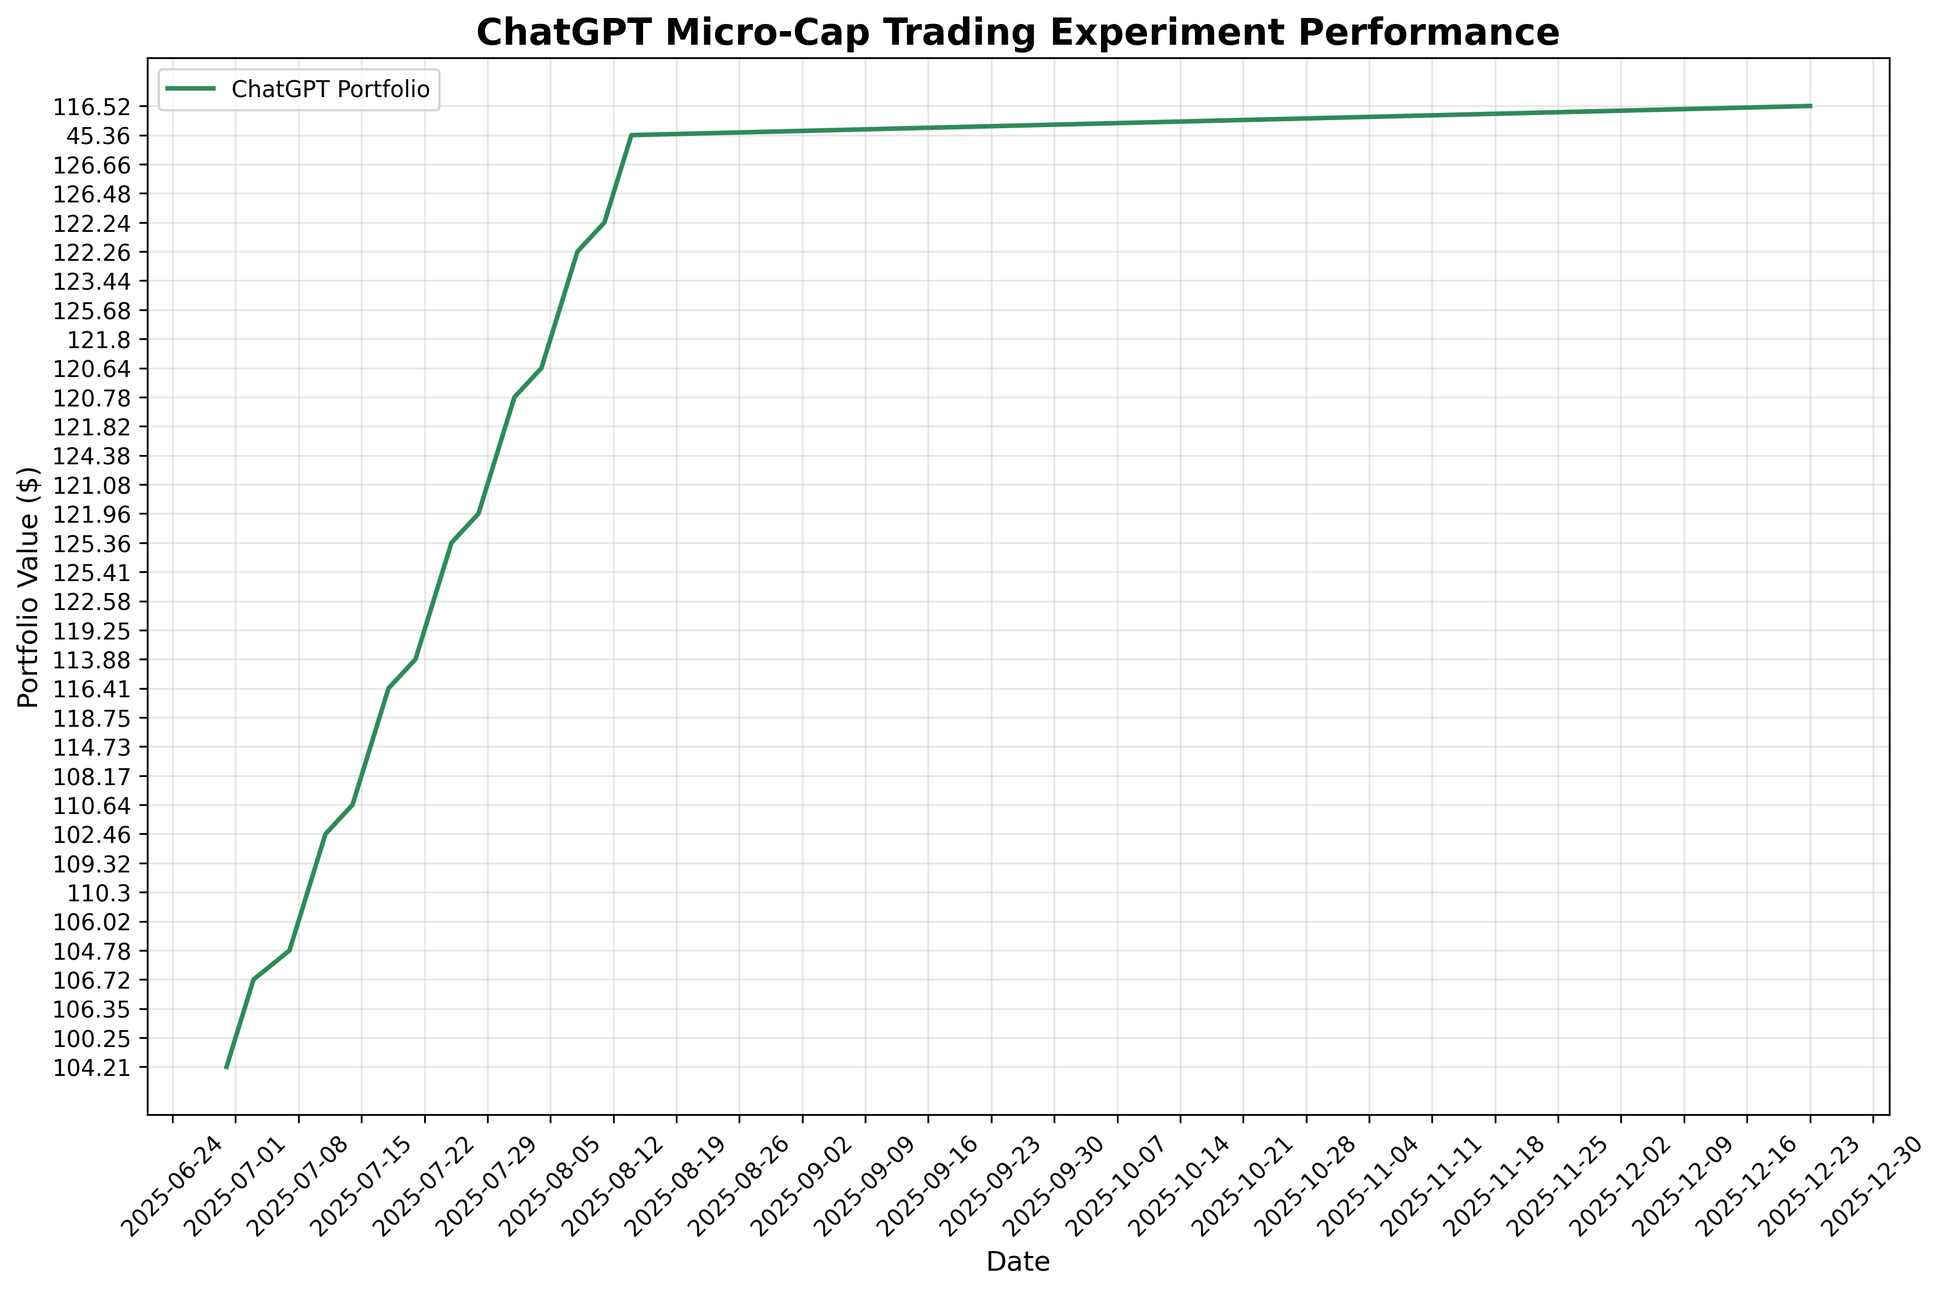
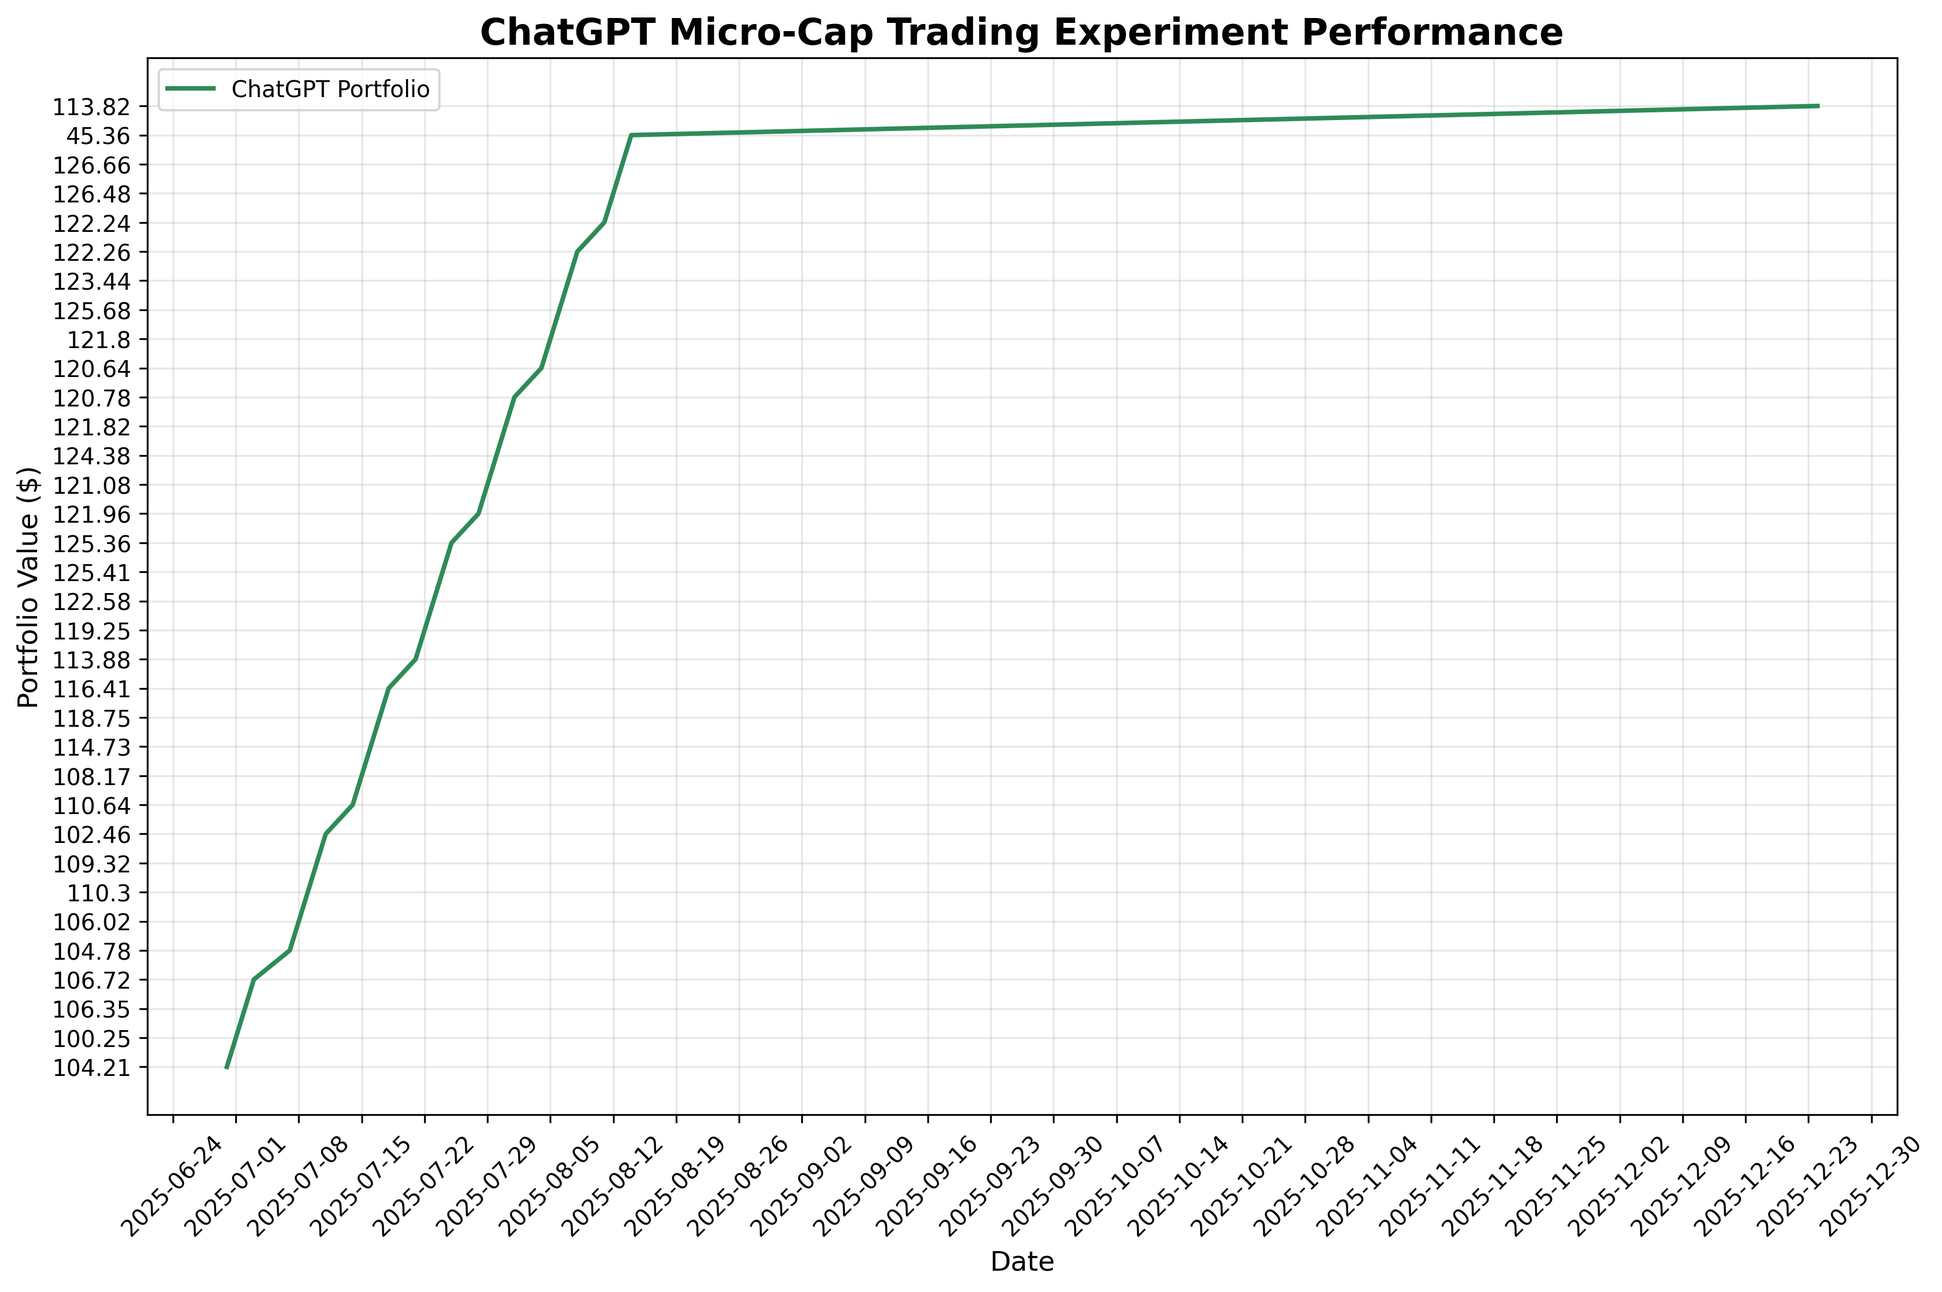
deploy: e15cad030d70fb3fbb51f9df6e22fa70c2f175c0

diff --git a/index.html b/index.html
@@ -105,7 +105,7 @@
                 <div class="stat-label">Total Trades</div>
             </div>
             <div class="stat-card">
-                <div class="stat-value" id="last-updated">2025-12-23</div>
+                <div class="stat-value" id="last-updated">2025-12-24</div>
                 <div class="stat-label">Last Updated</div>
             </div>
         </div>
@@ -160,7 +160,7 @@
     
     <script>
         // Portfolio data
-        const portfolioData = JSON.parse("[{&quot;Date&quot;: &quot;2025-08-11&quot;, &quot;Ticker&quot;: &quot;ABEO&quot;, &quot;Shares&quot;: 4.0, &quot;Buy Price&quot;: 5.77, &quot;Cost Basis&quot;: 23.08, &quot;Stop Loss&quot;: 4.9, &quot;Current Price&quot;: 6.28, &quot;Total Value&quot;: 25.12, &quot;PnL&quot;: 2.04, &quot;Action&quot;: &quot;HOLD&quot;, &quot;Cash Balance&quot;: NaN, &quot;Total Equity&quot;: NaN}, {&quot;Date&quot;: &quot;2025-08-11&quot;, &quot;Ticker&quot;: &quot;ACTU&quot;, &quot;Shares&quot;: 6.0, &quot;Buy Price&quot;: 5.75, &quot;Cost Basis&quot;: 34.5, &quot;Stop Loss&quot;: 4.89, &quot;Current Price&quot;: 8.01, &quot;Total Value&quot;: 48.06, &quot;PnL&quot;: 13.56, &quot;Action&quot;: &quot;HOLD&quot;, &quot;Cash Balance&quot;: NaN, &quot;Total Equity&quot;: NaN}, {&quot;Date&quot;: &quot;2025-08-11&quot;, &quot;Ticker&quot;: &quot;ESPR&quot;, &quot;Shares&quot;: 2.0, &quot;Buy Price&quot;: 1.91, &quot;Cost Basis&quot;: 3.82, &quot;Stop Loss&quot;: 1.6, &quot;Current Price&quot;: 1.85, &quot;Total Value&quot;: 3.7, &quot;PnL&quot;: -0.12, &quot;Action&quot;: &quot;HOLD&quot;, &quot;Cash Balance&quot;: NaN, &quot;Total Equity&quot;: NaN}, {&quot;Date&quot;: &quot;2025-08-11&quot;, &quot;Ticker&quot;: &quot;TOTAL&quot;, &quot;Shares&quot;: NaN, &quot;Buy Price&quot;: NaN, &quot;Cost Basis&quot;: NaN, &quot;Stop Loss&quot;: NaN, &quot;Current Price&quot;: NaN, &quot;Total Value&quot;: 76.88, &quot;PnL&quot;: 15.48, &quot;Action&quot;: NaN, &quot;Cash Balance&quot;: 45.36, &quot;Total Equity&quot;: &quot;122.24&quot;}, {&quot;Date&quot;: &quot;2025-08-12&quot;, &quot;Ticker&quot;: &quot;ABEO&quot;, &quot;Shares&quot;: 4.0, &quot;Buy Price&quot;: 5.77, &quot;Cost Basis&quot;: 23.08, &quot;Stop Loss&quot;: 4.9, &quot;Current Price&quot;: 6.38, &quot;Total Value&quot;: 25.52, &quot;PnL&quot;: 2.44, &quot;Action&quot;: &quot;HOLD&quot;, &quot;Cash Balance&quot;: NaN, &quot;Total Equity&quot;: NaN}, {&quot;Date&quot;: &quot;2025-08-12&quot;, &quot;Ticker&quot;: &quot;ACTU&quot;, &quot;Shares&quot;: 6.0, &quot;Buy Price&quot;: 5.75, &quot;Cost Basis&quot;: 34.5, &quot;Stop Loss&quot;: 4.89, &quot;Current Price&quot;: 8.67, &quot;Total Value&quot;: 52.02, &quot;PnL&quot;: 17.52, &quot;Action&quot;: &quot;HOLD&quot;, &quot;Cash Balance&quot;: NaN, &quot;Total Equity&quot;: NaN}, {&quot;Date&quot;: &quot;2025-08-12&quot;, &quot;Ticker&quot;: &quot;ESPR&quot;, &quot;Shares&quot;: 2.0, &quot;Buy Price&quot;: 1.91, &quot;Cost Basis&quot;: 3.82, &quot;Stop Loss&quot;: 1.6, &quot;Current Price&quot;: 1.79, &quot;Total Value&quot;: 3.58, &quot;PnL&quot;: -0.24, &quot;Action&quot;: &quot;HOLD&quot;, &quot;Cash Balance&quot;: NaN, &quot;Total Equity&quot;: NaN}, {&quot;Date&quot;: &quot;2025-08-12&quot;, &quot;Ticker&quot;: &quot;TOTAL&quot;, &quot;Shares&quot;: NaN, &quot;Buy Price&quot;: NaN, &quot;Cost Basis&quot;: NaN, &quot;Stop Loss&quot;: NaN, &quot;Current Price&quot;: NaN, &quot;Total Value&quot;: 81.12, &quot;PnL&quot;: 19.72, &quot;Action&quot;: NaN, &quot;Cash Balance&quot;: 45.36, &quot;Total Equity&quot;: &quot;126.48&quot;}, {&quot;Date&quot;: &quot;2025-08-13&quot;, &quot;Ticker&quot;: &quot;ABEO&quot;, &quot;Shares&quot;: 4.0, &quot;Buy Price&quot;: 5.77, &quot;Cost Basis&quot;: 23.08, &quot;Stop Loss&quot;: 4.9, &quot;Current Price&quot;: 6.56, &quot;Total Value&quot;: 26.24, &quot;PnL&quot;: 3.16, &quot;Action&quot;: &quot;HOLD&quot;, &quot;Cash Balance&quot;: NaN, &quot;Total Equity&quot;: NaN}, {&quot;Date&quot;: &quot;2025-08-13&quot;, &quot;Ticker&quot;: &quot;ACTU&quot;, &quot;Shares&quot;: 6.0, &quot;Buy Price&quot;: 5.75, &quot;Cost Basis&quot;: 34.5, &quot;Stop Loss&quot;: 4.89, &quot;Current Price&quot;: 8.53, &quot;Total Value&quot;: 51.18, &quot;PnL&quot;: 16.68, &quot;Action&quot;: &quot;HOLD&quot;, &quot;Cash Balance&quot;: NaN, &quot;Total Equity&quot;: NaN}, {&quot;Date&quot;: &quot;2025-08-13&quot;, &quot;Ticker&quot;: &quot;ESPR&quot;, &quot;Shares&quot;: 2.0, &quot;Buy Price&quot;: 1.91, &quot;Cost Basis&quot;: 3.82, &quot;Stop Loss&quot;: 1.6, &quot;Current Price&quot;: 1.94, &quot;Total Value&quot;: 3.88, &quot;PnL&quot;: 0.06, &quot;Action&quot;: &quot;HOLD&quot;, &quot;Cash Balance&quot;: NaN, &quot;Total Equity&quot;: NaN}, {&quot;Date&quot;: &quot;2025-08-13&quot;, &quot;Ticker&quot;: &quot;TOTAL&quot;, &quot;Shares&quot;: NaN, &quot;Buy Price&quot;: NaN, &quot;Cost Basis&quot;: NaN, &quot;Stop Loss&quot;: NaN, &quot;Current Price&quot;: NaN, &quot;Total Value&quot;: 81.3, &quot;PnL&quot;: 19.9, &quot;Action&quot;: NaN, &quot;Cash Balance&quot;: 45.36, &quot;Total Equity&quot;: &quot;126.66&quot;}, {&quot;Date&quot;: &quot;2025-08-14&quot;, &quot;Ticker&quot;: &quot;ABEO&quot;, &quot;Shares&quot;: 4.0, &quot;Buy Price&quot;: 5.77, &quot;Cost Basis&quot;: 23.08, &quot;Stop Loss&quot;: 4.9, &quot;Current Price&quot;: NaN, &quot;Total Value&quot;: NaN, &quot;PnL&quot;: NaN, &quot;Action&quot;: &quot;NO DATA&quot;, &quot;Cash Balance&quot;: NaN, &quot;Total Equity&quot;: NaN}, {&quot;Date&quot;: &quot;2025-08-14&quot;, &quot;Ticker&quot;: &quot;ACTU&quot;, &quot;Shares&quot;: 6.0, &quot;Buy Price&quot;: 5.75, &quot;Cost Basis&quot;: 34.5, &quot;Stop Loss&quot;: 4.89, &quot;Current Price&quot;: NaN, &quot;Total Value&quot;: NaN, &quot;PnL&quot;: NaN, &quot;Action&quot;: &quot;NO DATA&quot;, &quot;Cash Balance&quot;: NaN, &quot;Total Equity&quot;: NaN}, {&quot;Date&quot;: &quot;2025-08-14&quot;, &quot;Ticker&quot;: &quot;ESPR&quot;, &quot;Shares&quot;: 2.0, &quot;Buy Price&quot;: 1.91, &quot;Cost Basis&quot;: 3.82, &quot;Stop Loss&quot;: 1.6, &quot;Current Price&quot;: NaN, &quot;Total Value&quot;: NaN, &quot;PnL&quot;: NaN, &quot;Action&quot;: &quot;NO DATA&quot;, &quot;Cash Balance&quot;: NaN, &quot;Total Equity&quot;: NaN}, {&quot;Date&quot;: &quot;2025-08-14&quot;, &quot;Ticker&quot;: &quot;TOTAL&quot;, &quot;Shares&quot;: NaN, &quot;Buy Price&quot;: NaN, &quot;Cost Basis&quot;: NaN, &quot;Stop Loss&quot;: NaN, &quot;Current Price&quot;: NaN, &quot;Total Value&quot;: 0.0, &quot;PnL&quot;: 0.0, &quot;Action&quot;: NaN, &quot;Cash Balance&quot;: 45.36, &quot;Total Equity&quot;: &quot;45.36&quot;}, {&quot;Date&quot;: &quot;2025-12-23&quot;, &quot;Ticker&quot;: &quot;ABEO&quot;, &quot;Shares&quot;: 4.0, &quot;Buy Price&quot;: 5.77, &quot;Cost Basis&quot;: 23.08, &quot;Stop Loss&quot;: 4.9, &quot;Current Price&quot;: 5.43, &quot;Total Value&quot;: 21.72, &quot;PnL&quot;: -1.36, &quot;Action&quot;: &quot;HOLD&quot;, &quot;Cash Balance&quot;: NaN, &quot;Total Equity&quot;: NaN}, {&quot;Date&quot;: &quot;2025-12-23&quot;, &quot;Ticker&quot;: &quot;ACTU&quot;, &quot;Shares&quot;: 6.0, &quot;Buy Price&quot;: 5.75, &quot;Cost Basis&quot;: 34.5, &quot;Stop Loss&quot;: 4.89, &quot;Current Price&quot;: 6.89, &quot;Total Value&quot;: 41.34, &quot;PnL&quot;: 6.84, &quot;Action&quot;: &quot;HOLD&quot;, &quot;Cash Balance&quot;: NaN, &quot;Total Equity&quot;: NaN}, {&quot;Date&quot;: &quot;2025-12-23&quot;, &quot;Ticker&quot;: &quot;ESPR&quot;, &quot;Shares&quot;: 2.0, &quot;Buy Price&quot;: 1.91, &quot;Cost Basis&quot;: 3.82, &quot;Stop Loss&quot;: 1.6, &quot;Current Price&quot;: 4.05, &quot;Total Value&quot;: 8.1, &quot;PnL&quot;: 4.28, &quot;Action&quot;: &quot;HOLD&quot;, &quot;Cash Balance&quot;: NaN, &quot;Total Equity&quot;: NaN}, {&quot;Date&quot;: &quot;2025-12-23&quot;, &quot;Ticker&quot;: &quot;TOTAL&quot;, &quot;Shares&quot;: NaN, &quot;Buy Price&quot;: NaN, &quot;Cost Basis&quot;: NaN, &quot;Stop Loss&quot;: NaN, &quot;Current Price&quot;: NaN, &quot;Total Value&quot;: 71.16, &quot;PnL&quot;: 9.76, &quot;Action&quot;: NaN, &quot;Cash Balance&quot;: 45.36, &quot;Total Equity&quot;: &quot;116.52&quot;}]");
+        const portfolioData = JSON.parse("[{&quot;Date&quot;: &quot;2025-08-11&quot;, &quot;Ticker&quot;: &quot;ABEO&quot;, &quot;Shares&quot;: 4.0, &quot;Buy Price&quot;: 5.77, &quot;Cost Basis&quot;: 23.08, &quot;Stop Loss&quot;: 4.9, &quot;Current Price&quot;: 6.28, &quot;Total Value&quot;: 25.12, &quot;PnL&quot;: 2.04, &quot;Action&quot;: &quot;HOLD&quot;, &quot;Cash Balance&quot;: NaN, &quot;Total Equity&quot;: NaN}, {&quot;Date&quot;: &quot;2025-08-11&quot;, &quot;Ticker&quot;: &quot;ACTU&quot;, &quot;Shares&quot;: 6.0, &quot;Buy Price&quot;: 5.75, &quot;Cost Basis&quot;: 34.5, &quot;Stop Loss&quot;: 4.89, &quot;Current Price&quot;: 8.01, &quot;Total Value&quot;: 48.06, &quot;PnL&quot;: 13.56, &quot;Action&quot;: &quot;HOLD&quot;, &quot;Cash Balance&quot;: NaN, &quot;Total Equity&quot;: NaN}, {&quot;Date&quot;: &quot;2025-08-11&quot;, &quot;Ticker&quot;: &quot;ESPR&quot;, &quot;Shares&quot;: 2.0, &quot;Buy Price&quot;: 1.91, &quot;Cost Basis&quot;: 3.82, &quot;Stop Loss&quot;: 1.6, &quot;Current Price&quot;: 1.85, &quot;Total Value&quot;: 3.7, &quot;PnL&quot;: -0.12, &quot;Action&quot;: &quot;HOLD&quot;, &quot;Cash Balance&quot;: NaN, &quot;Total Equity&quot;: NaN}, {&quot;Date&quot;: &quot;2025-08-11&quot;, &quot;Ticker&quot;: &quot;TOTAL&quot;, &quot;Shares&quot;: NaN, &quot;Buy Price&quot;: NaN, &quot;Cost Basis&quot;: NaN, &quot;Stop Loss&quot;: NaN, &quot;Current Price&quot;: NaN, &quot;Total Value&quot;: 76.88, &quot;PnL&quot;: 15.48, &quot;Action&quot;: NaN, &quot;Cash Balance&quot;: 45.36, &quot;Total Equity&quot;: &quot;122.24&quot;}, {&quot;Date&quot;: &quot;2025-08-12&quot;, &quot;Ticker&quot;: &quot;ABEO&quot;, &quot;Shares&quot;: 4.0, &quot;Buy Price&quot;: 5.77, &quot;Cost Basis&quot;: 23.08, &quot;Stop Loss&quot;: 4.9, &quot;Current Price&quot;: 6.38, &quot;Total Value&quot;: 25.52, &quot;PnL&quot;: 2.44, &quot;Action&quot;: &quot;HOLD&quot;, &quot;Cash Balance&quot;: NaN, &quot;Total Equity&quot;: NaN}, {&quot;Date&quot;: &quot;2025-08-12&quot;, &quot;Ticker&quot;: &quot;ACTU&quot;, &quot;Shares&quot;: 6.0, &quot;Buy Price&quot;: 5.75, &quot;Cost Basis&quot;: 34.5, &quot;Stop Loss&quot;: 4.89, &quot;Current Price&quot;: 8.67, &quot;Total Value&quot;: 52.02, &quot;PnL&quot;: 17.52, &quot;Action&quot;: &quot;HOLD&quot;, &quot;Cash Balance&quot;: NaN, &quot;Total Equity&quot;: NaN}, {&quot;Date&quot;: &quot;2025-08-12&quot;, &quot;Ticker&quot;: &quot;ESPR&quot;, &quot;Shares&quot;: 2.0, &quot;Buy Price&quot;: 1.91, &quot;Cost Basis&quot;: 3.82, &quot;Stop Loss&quot;: 1.6, &quot;Current Price&quot;: 1.79, &quot;Total Value&quot;: 3.58, &quot;PnL&quot;: -0.24, &quot;Action&quot;: &quot;HOLD&quot;, &quot;Cash Balance&quot;: NaN, &quot;Total Equity&quot;: NaN}, {&quot;Date&quot;: &quot;2025-08-12&quot;, &quot;Ticker&quot;: &quot;TOTAL&quot;, &quot;Shares&quot;: NaN, &quot;Buy Price&quot;: NaN, &quot;Cost Basis&quot;: NaN, &quot;Stop Loss&quot;: NaN, &quot;Current Price&quot;: NaN, &quot;Total Value&quot;: 81.12, &quot;PnL&quot;: 19.72, &quot;Action&quot;: NaN, &quot;Cash Balance&quot;: 45.36, &quot;Total Equity&quot;: &quot;126.48&quot;}, {&quot;Date&quot;: &quot;2025-08-13&quot;, &quot;Ticker&quot;: &quot;ABEO&quot;, &quot;Shares&quot;: 4.0, &quot;Buy Price&quot;: 5.77, &quot;Cost Basis&quot;: 23.08, &quot;Stop Loss&quot;: 4.9, &quot;Current Price&quot;: 6.56, &quot;Total Value&quot;: 26.24, &quot;PnL&quot;: 3.16, &quot;Action&quot;: &quot;HOLD&quot;, &quot;Cash Balance&quot;: NaN, &quot;Total Equity&quot;: NaN}, {&quot;Date&quot;: &quot;2025-08-13&quot;, &quot;Ticker&quot;: &quot;ACTU&quot;, &quot;Shares&quot;: 6.0, &quot;Buy Price&quot;: 5.75, &quot;Cost Basis&quot;: 34.5, &quot;Stop Loss&quot;: 4.89, &quot;Current Price&quot;: 8.53, &quot;Total Value&quot;: 51.18, &quot;PnL&quot;: 16.68, &quot;Action&quot;: &quot;HOLD&quot;, &quot;Cash Balance&quot;: NaN, &quot;Total Equity&quot;: NaN}, {&quot;Date&quot;: &quot;2025-08-13&quot;, &quot;Ticker&quot;: &quot;ESPR&quot;, &quot;Shares&quot;: 2.0, &quot;Buy Price&quot;: 1.91, &quot;Cost Basis&quot;: 3.82, &quot;Stop Loss&quot;: 1.6, &quot;Current Price&quot;: 1.94, &quot;Total Value&quot;: 3.88, &quot;PnL&quot;: 0.06, &quot;Action&quot;: &quot;HOLD&quot;, &quot;Cash Balance&quot;: NaN, &quot;Total Equity&quot;: NaN}, {&quot;Date&quot;: &quot;2025-08-13&quot;, &quot;Ticker&quot;: &quot;TOTAL&quot;, &quot;Shares&quot;: NaN, &quot;Buy Price&quot;: NaN, &quot;Cost Basis&quot;: NaN, &quot;Stop Loss&quot;: NaN, &quot;Current Price&quot;: NaN, &quot;Total Value&quot;: 81.3, &quot;PnL&quot;: 19.9, &quot;Action&quot;: NaN, &quot;Cash Balance&quot;: 45.36, &quot;Total Equity&quot;: &quot;126.66&quot;}, {&quot;Date&quot;: &quot;2025-08-14&quot;, &quot;Ticker&quot;: &quot;ABEO&quot;, &quot;Shares&quot;: 4.0, &quot;Buy Price&quot;: 5.77, &quot;Cost Basis&quot;: 23.08, &quot;Stop Loss&quot;: 4.9, &quot;Current Price&quot;: NaN, &quot;Total Value&quot;: NaN, &quot;PnL&quot;: NaN, &quot;Action&quot;: &quot;NO DATA&quot;, &quot;Cash Balance&quot;: NaN, &quot;Total Equity&quot;: NaN}, {&quot;Date&quot;: &quot;2025-08-14&quot;, &quot;Ticker&quot;: &quot;ACTU&quot;, &quot;Shares&quot;: 6.0, &quot;Buy Price&quot;: 5.75, &quot;Cost Basis&quot;: 34.5, &quot;Stop Loss&quot;: 4.89, &quot;Current Price&quot;: NaN, &quot;Total Value&quot;: NaN, &quot;PnL&quot;: NaN, &quot;Action&quot;: &quot;NO DATA&quot;, &quot;Cash Balance&quot;: NaN, &quot;Total Equity&quot;: NaN}, {&quot;Date&quot;: &quot;2025-08-14&quot;, &quot;Ticker&quot;: &quot;ESPR&quot;, &quot;Shares&quot;: 2.0, &quot;Buy Price&quot;: 1.91, &quot;Cost Basis&quot;: 3.82, &quot;Stop Loss&quot;: 1.6, &quot;Current Price&quot;: NaN, &quot;Total Value&quot;: NaN, &quot;PnL&quot;: NaN, &quot;Action&quot;: &quot;NO DATA&quot;, &quot;Cash Balance&quot;: NaN, &quot;Total Equity&quot;: NaN}, {&quot;Date&quot;: &quot;2025-08-14&quot;, &quot;Ticker&quot;: &quot;TOTAL&quot;, &quot;Shares&quot;: NaN, &quot;Buy Price&quot;: NaN, &quot;Cost Basis&quot;: NaN, &quot;Stop Loss&quot;: NaN, &quot;Current Price&quot;: NaN, &quot;Total Value&quot;: 0.0, &quot;PnL&quot;: 0.0, &quot;Action&quot;: NaN, &quot;Cash Balance&quot;: 45.36, &quot;Total Equity&quot;: &quot;45.36&quot;}, {&quot;Date&quot;: &quot;2025-12-24&quot;, &quot;Ticker&quot;: &quot;ABEO&quot;, &quot;Shares&quot;: 4.0, &quot;Buy Price&quot;: 5.77, &quot;Cost Basis&quot;: 23.08, &quot;Stop Loss&quot;: 4.9, &quot;Current Price&quot;: 5.36, &quot;Total Value&quot;: 21.44, &quot;PnL&quot;: -1.64, &quot;Action&quot;: &quot;HOLD&quot;, &quot;Cash Balance&quot;: NaN, &quot;Total Equity&quot;: NaN}, {&quot;Date&quot;: &quot;2025-12-24&quot;, &quot;Ticker&quot;: &quot;ACTU&quot;, &quot;Shares&quot;: 6.0, &quot;Buy Price&quot;: 5.75, &quot;Cost Basis&quot;: 34.5, &quot;Stop Loss&quot;: 4.89, &quot;Current Price&quot;: 6.53, &quot;Total Value&quot;: 39.18, &quot;PnL&quot;: 4.68, &quot;Action&quot;: &quot;HOLD&quot;, &quot;Cash Balance&quot;: NaN, &quot;Total Equity&quot;: NaN}, {&quot;Date&quot;: &quot;2025-12-24&quot;, &quot;Ticker&quot;: &quot;ESPR&quot;, &quot;Shares&quot;: 2.0, &quot;Buy Price&quot;: 1.91, &quot;Cost Basis&quot;: 3.82, &quot;Stop Loss&quot;: 1.6, &quot;Current Price&quot;: 3.92, &quot;Total Value&quot;: 7.84, &quot;PnL&quot;: 4.02, &quot;Action&quot;: &quot;HOLD&quot;, &quot;Cash Balance&quot;: NaN, &quot;Total Equity&quot;: NaN}, {&quot;Date&quot;: &quot;2025-12-24&quot;, &quot;Ticker&quot;: &quot;TOTAL&quot;, &quot;Shares&quot;: NaN, &quot;Buy Price&quot;: NaN, &quot;Cost Basis&quot;: NaN, &quot;Stop Loss&quot;: NaN, &quot;Current Price&quot;: NaN, &quot;Total Value&quot;: 68.46, &quot;PnL&quot;: 7.06, &quot;Action&quot;: NaN, &quot;Cash Balance&quot;: 45.36, &quot;Total Equity&quot;: &quot;113.82&quot;}]");
         const tradeData = JSON.parse("[{&quot;Date&quot;: &quot;2025-07-07&quot;, &quot;Ticker&quot;: &quot;CSAI&quot;, &quot;Shares Bought&quot;: NaN, &quot;Buy Price&quot;: NaN, &quot;Cost Basis&quot;: 1.9, &quot;PnL&quot;: 5.7, &quot;Reason&quot;: &quot;MANUAL SELL - Rotated into AZTR&quot;, &quot;Shares Sold&quot;: 15.0, &quot;Sell Price&quot;: 2.28}, {&quot;Date&quot;: &quot;2025-07-08&quot;, &quot;Ticker&quot;: &quot;IINN&quot;, &quot;Shares Bought&quot;: 20.0, &quot;Buy Price&quot;: 1.5, &quot;Cost Basis&quot;: 30.0, &quot;PnL&quot;: 0.0, &quot;Reason&quot;: &quot;MANUAL BUY - New position&quot;, &quot;Shares Sold&quot;: NaN, &quot;Sell Price&quot;: NaN}, {&quot;Date&quot;: &quot;2025-07-21&quot;, &quot;Ticker&quot;: &quot;CADL&quot;, &quot;Shares Bought&quot;: NaN, &quot;Buy Price&quot;: NaN, &quot;Cost Basis&quot;: 25.2, &quot;PnL&quot;: 8.5, &quot;Reason&quot;: &quot;MANUAL SELL - GAIN CAPITAL FOR ACTU&quot;, &quot;Shares Sold&quot;: 5.0, &quot;Sell Price&quot;: 6.59}, {&quot;Date&quot;: &quot;2025-07-21&quot;, &quot;Ticker&quot;: &quot;ACTU&quot;, &quot;Shares Bought&quot;: 6.0, &quot;Buy Price&quot;: 5.75, &quot;Cost Basis&quot;: 34.5, &quot;PnL&quot;: 0.0, &quot;Reason&quot;: &quot;MANUAL BUY - New position&quot;, &quot;Shares Sold&quot;: NaN, &quot;Sell Price&quot;: NaN}, {&quot;Date&quot;: &quot;2025-07-28&quot;, &quot;Ticker&quot;: &quot;IINN&quot;, &quot;Shares Bought&quot;: NaN, &quot;Buy Price&quot;: NaN, &quot;Cost Basis&quot;: 9.0, &quot;PnL&quot;: -0.5400000000000009, &quot;Reason&quot;: &quot;MANUAL SELL - POSITION REDUCTION&quot;, &quot;Shares Sold&quot;: 6.0, &quot;Sell Price&quot;: 1.41}, {&quot;Date&quot;: &quot;2025-07-29&quot;, &quot;Ticker&quot;: &quot;AZTR&quot;, &quot;Shares Bought&quot;: NaN, &quot;Buy Price&quot;: NaN, &quot;Cost Basis&quot;: 13.75, &quot;PnL&quot;: -2.75, &quot;Reason&quot;: &quot;MANUAL SELL - DILUTION RISK&quot;, &quot;Shares Sold&quot;: 55.0, &quot;Sell Price&quot;: 0.2}, {&quot;Date&quot;: &quot;2025-08-01&quot;, &quot;Ticker&quot;: &quot;IINN&quot;, &quot;Shares Bought&quot;: 2.0, &quot;Buy Price&quot;: 1.74, &quot;Cost Basis&quot;: 3.48, &quot;PnL&quot;: 0.0, &quot;Reason&quot;: &quot;MANUAL BUY - New position&quot;, &quot;Shares Sold&quot;: NaN, &quot;Sell Price&quot;: NaN}, {&quot;Date&quot;: &quot;2025-08-01&quot;, &quot;Ticker&quot;: &quot;ABEO&quot;, &quot;Shares Bought&quot;: NaN, &quot;Buy Price&quot;: NaN, &quot;Cost Basis&quot;: 11.54, &quot;PnL&quot;: 1.200000000000001, &quot;Reason&quot;: &quot;MANUAL SELL - TRIM AFTER SUPPORT LOSS&quot;, &quot;Shares Sold&quot;: 2.0, &quot;Sell Price&quot;: 6.37}, {&quot;Date&quot;: &quot;2025-08-07&quot;, &quot;Ticker&quot;: &quot;ESPR&quot;, &quot;Shares Bought&quot;: 2.0, &quot;Buy Price&quot;: 1.91, &quot;Cost Basis&quot;: 3.82, &quot;PnL&quot;: 0.0, &quot;Reason&quot;: &quot;MANUAL BUY - New position&quot;, &quot;Shares Sold&quot;: NaN, &quot;Sell Price&quot;: NaN}, {&quot;Date&quot;: &quot;2025-08-08&quot;, &quot;Ticker&quot;: &quot;IINN&quot;, &quot;Shares Bought&quot;: NaN, &quot;Buy Price&quot;: NaN, &quot;Cost Basis&quot;: 1.5, &quot;PnL&quot;: -6.4, &quot;Reason&quot;: &quot;AUTOMATED SELL - STOPLOSS TRIGGERED&quot;, &quot;Shares Sold&quot;: 16.0, &quot;Sell Price&quot;: 1.1}]");
         
         // Update total equity
